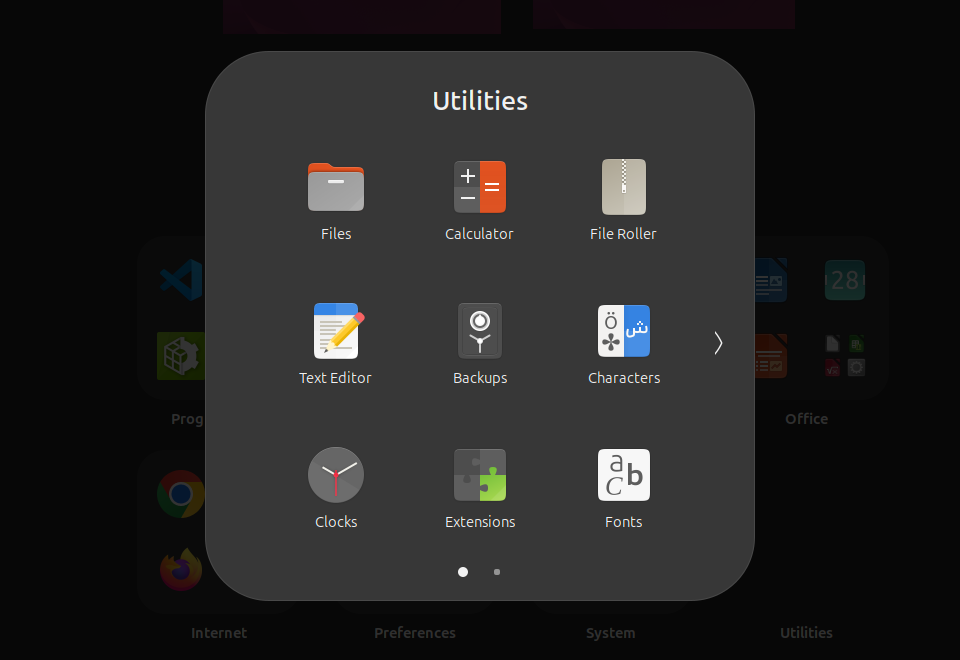
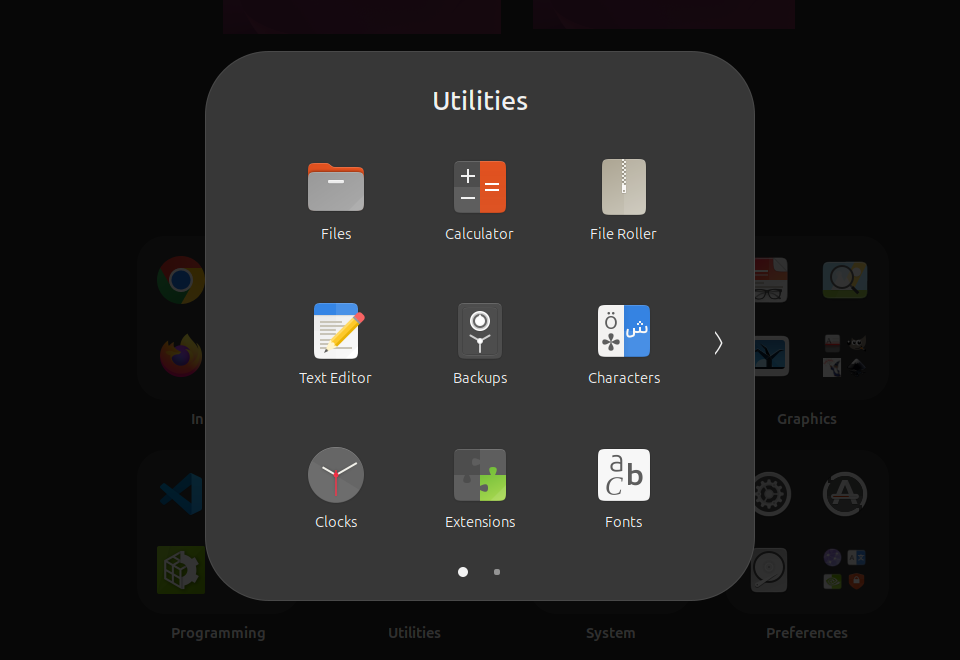
Order category tiles for display, separate from matching priority
Everyday categories first, related ones next to each other, system
categories last. Which category an app lands in is unchanged.

diff --git a/extension.js b/extension.js
@@ -33,6 +33,13 @@ const CATEGORIES = [
     {id: 'utilities', directory: 'X-GNOME-Shell-Utilities.directory', fallback: 'Utilities', match: ['Utility', 'Accessibility', 'Accessories']},
 ];
 const OTHER = {id: 'other', directory: 'X-GNOME-Other.directory', fallback: 'Other', match: []};
+// Tile order, independent of the matching priority above: everyday apps
+// first, related categories next to each other, system ones last.
+const DISPLAY_ORDER = [
+    'internet', 'office', 'media', 'graphics',
+    'games', 'programming', 'science', 'education',
+    'utilities', 'system', 'settings', 'other',
+];
 
 const MIN_COLUMNS = 4;
 // Only used when even the widest grid does not fit at the preferred size.
@@ -94,8 +101,9 @@ function buildModel() {
     }
 
     const model = [];
-    for (const cat of [...CATEGORIES, OTHER]) {
-        const apps = groups.get(cat.id);
+    for (const id of DISPLAY_ORDER) {
+        const cat = [...CATEGORIES, OTHER].find(c => c.id === id);
+        const apps = groups.get(id);
         if (apps.length === 0)
             continue;
         apps.sort((a, b) =>
